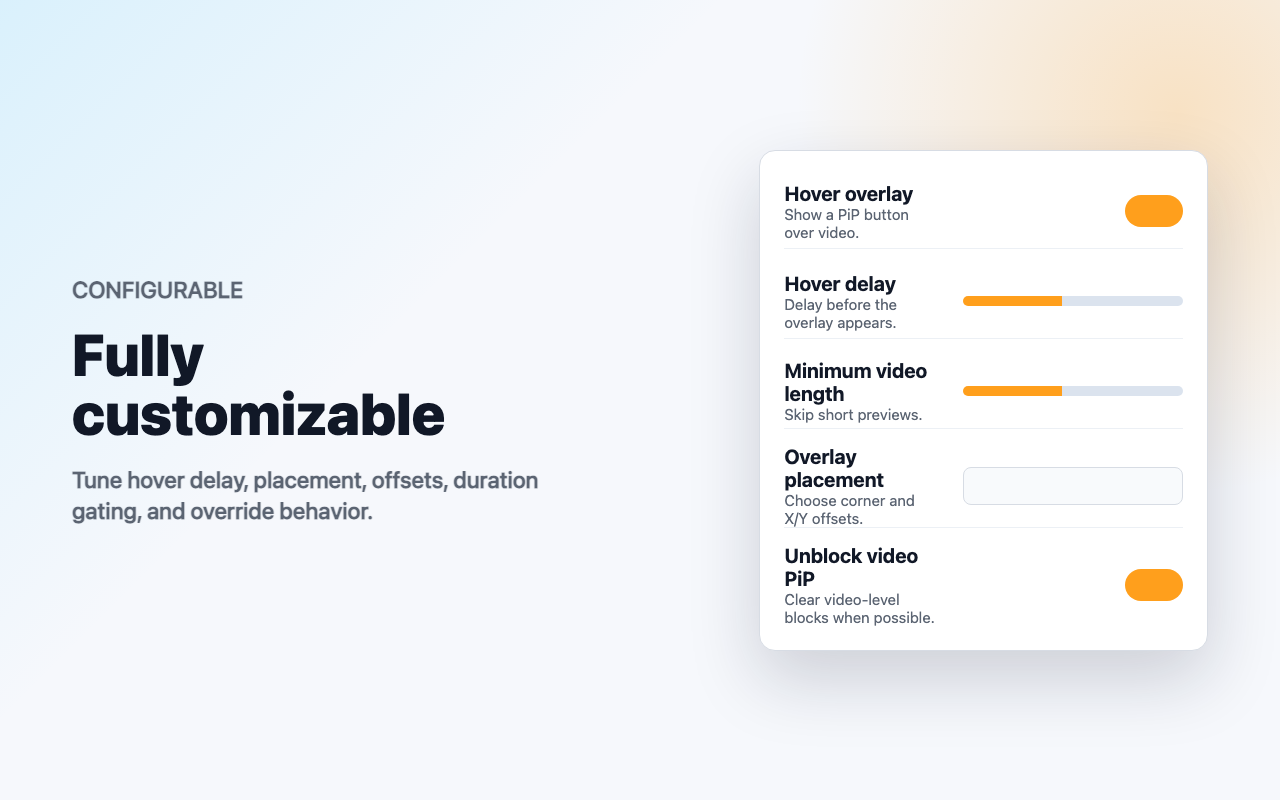
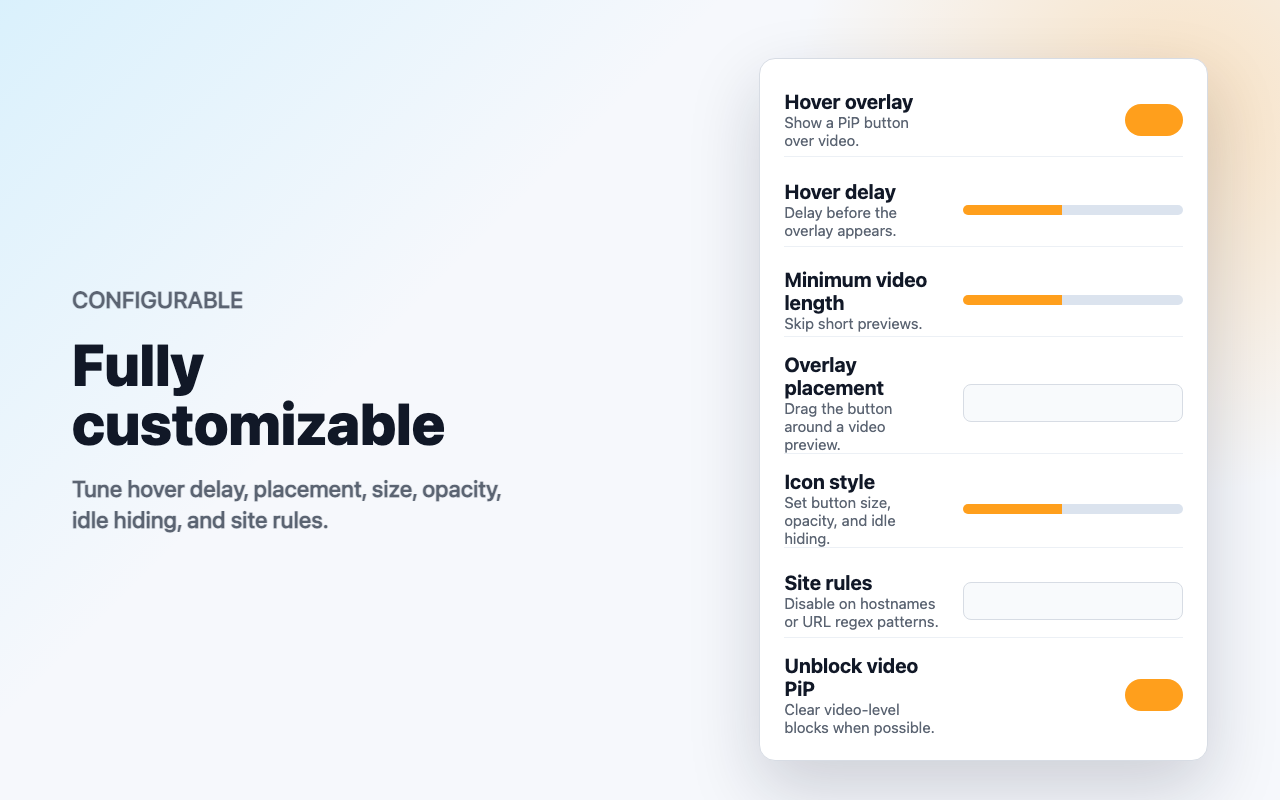
docs: refresh advanced feature copy

diff --git a/store/listing.data.js b/store/listing.data.js
@@ -16,20 +16,22 @@ export default {
 
   copy: {
     shortDescription:
-      "Keyboard, toolbar, and hover picture-in-picture controls for HTML5 video.",
+      "Keyboard, video picker, and hover picture-in-picture controls for HTML5 video.",
 
     detailedDescription: `PiP Anywhere gives you faster, more reliable picture-in-picture controls for HTML5 video in Chrome and Edge.
 
-Native browser PiP is useful, but the controls can be hidden, inconsistent, or blocked by video sites. PiP Anywhere adds a consistent command layer so you can pop videos out from the keyboard, toolbar, or an on-video hover button.
+Native browser PiP is useful, but the controls can be hidden, inconsistent, or blocked by video sites. PiP Anywhere adds a consistent command layer so you can pop videos out from the keyboard, a toolbar video picker, or an on-video hover button.
 
 FEATURES
 
 • Hover overlay — show a PiP button directly over eligible videos
 • Browser shortcut — toggle PiP from a configurable extension command
-• Toolbar action — click the extension icon to toggle PiP for the best video on the page
+• Toolbar video picker — click the extension icon, highlight page videos, then choose the one to pop out
 • Best-effort unblocking — clears video-level PiP blocks such as disablePictureInPicture when possible
 • Smarter preview handling — suppresses noisy overlays on short videos and YouTube homepage previews
-• Configurable behavior — set hover delay, minimum video length, overlay corner, and X/Y offsets
+• Configurable behavior — set hover delay, minimum video length, drag-based overlay placement, hover icon size, hover icon opacity, and idle hiding
+• Site rules — disable the extension on matching hosts or URL regex patterns
+• Settings portability — import and export your options as JSON
 • Useful feedback — shows clear messages when the browser requires page interaction or no eligible video exists
 
 WHY IT EXISTS
@@ -48,7 +50,7 @@ OPEN SOURCE
 
 Source code: https://github.com/gormanity/pip-anywhere-extension`,
 
-    versionNotes: `Initial release candidate. Adds keyboard, toolbar, and hover-overlay picture-in-picture controls for HTML5 video, configurable overlay behavior, and best-effort video-level PiP unblocking.`,
+    versionNotes: `Initial release candidate. Adds keyboard, toolbar video picker, and hover-overlay picture-in-picture controls for HTML5 video, configurable overlay behavior, per-site disabling, settings import/export, and best-effort video-level PiP unblocking.`,
   },
 
   categories: {
@@ -62,8 +64,8 @@ Source code: https://github.com/gormanity/pip-anywhere-extension`,
     verification: [
       "Load any page with an HTML5 video, such as a normal YouTube watch page, then hover the video to see the PiP overlay button.",
       "Click the hover overlay button to request native picture-in-picture for that video.",
-      "Click the extension toolbar icon on a video page to toggle PiP for the best eligible video.",
-      "Open the options page to adjust hover delay, minimum video length, overlay corner, X/Y offsets, and video-level unblocking.",
+      "Click the extension toolbar icon on a video page to highlight videos, then click a highlighted video to request PiP.",
+      "Open the options page to adjust hover delay, minimum video length, drag-based overlay placement, hover icon size, hover icon opacity, idle hiding, per-site disable rules, settings import/export, and video-level unblocking.",
       "The extension uses `chrome.storage.sync` only for user preferences.",
       "The extension does not use remote code, external services, analytics, tracking, accounts, or network requests.",
       "Browser-level user activation, Permissions Policy, and DRM restrictions may still prevent PiP on some pages.",
@@ -75,7 +77,7 @@ Source code: https://github.com/gormanity/pip-anywhere-extension`,
 
   chrome: {
     singlePurpose:
-      "Adds keyboard, toolbar, and hover-overlay controls for triggering native picture-in-picture on HTML5 video pages in Chrome and Edge.",
+      "Adds keyboard, toolbar video picker, and hover-overlay controls for triggering native picture-in-picture on HTML5 video pages in Chrome and Edge.",
 
     remoteCodeJustification:
       "This extension does not use remote code. All scripts, styles, and resources are bundled into the extension package at build time via Vite and shipped inside the .zip submitted to the store.",
@@ -84,7 +86,7 @@ Source code: https://github.com/gormanity/pip-anywhere-extension`,
       {
         permission: "`activeTab`",
         justification:
-          "Allows the toolbar action and keyboard command to target the currently active tab when the user explicitly invokes PiP.",
+          "Allows the toolbar video picker and keyboard command to target the currently active tab when the user explicitly invokes PiP.",
       },
       {
         permission: "`scripting`",
@@ -94,7 +96,7 @@ Source code: https://github.com/gormanity/pip-anywhere-extension`,
       {
         permission: "`storage`",
         justification:
-          "Stores user preferences such as hover delay, overlay placement, minimum video length, and PiP unblocking behavior using browser sync storage.",
+          "Stores user preferences such as hover delay, overlay placement, hover icon size, hover icon opacity, minimum video length, site disable rules, and PiP unblocking behavior using browser sync storage.",
       },
       {
         permission: "Host permission: `<all_urls>`",

diff --git a/store/screenshots/04-options.html b/store/screenshots/04-options.html
@@ -11,8 +11,8 @@
         <p class="eyebrow">Configurable</p>
         <h1>Fully customizable</h1>
         <p>
-          Tune hover delay, placement, offsets, duration gating, and override
-          behavior.
+          Tune hover delay, placement, size, opacity, idle hiding, and site
+          rules.
         </p>
       </section>
       <section class="options-panel">
@@ -40,7 +40,21 @@
         <div class="option-row">
           <div>
             <strong>Overlay placement</strong
-            ><small>Choose corner and X/Y offsets.</small>
+            ><small>Drag the button around a video preview.</small>
+          </div>
+          <span class="select"></span>
+        </div>
+        <div class="option-row">
+          <div>
+            <strong>Icon style</strong
+            ><small>Set button size, opacity, and idle hiding.</small>
+          </div>
+          <span class="range"></span>
+        </div>
+        <div class="option-row">
+          <div>
+            <strong>Site rules</strong
+            ><small>Disable on hostnames or URL regex patterns.</small>
           </div>
           <span class="select"></span>
         </div>

diff --git a/tests/e2e/local-fixture.spec.ts b/tests/e2e/local-fixture.spec.ts
@@ -165,7 +165,7 @@ test("honors configured hover delay before showing the overlay", async () => {
   });
 });
 
-test("positions the overlay from the configured corner and offsets", async () => {
+test("positions the overlay from configured percentage placement", async () => {
   await setSettings({
     overlayPositionXPercent: 20,
     overlayPositionYPercent: 80,

diff --git a/README.md b/README.md
@@ -7,11 +7,12 @@ overlay on video elements.
 ## Features
 
 - Browser command for toggling PiP on the active tab.
-- Toolbar action that sends the same PiP toggle to the active tab.
-- Hover overlay button for HTML5 video elements.
+- Toolbar action that highlights page videos so you can choose the PiP target.
+- Hover overlay button for HTML5 video elements, with configurable placement,
+  size, opacity, delay, idle hiding, and minimum video length.
 - Best-effort clearing of video-level `disablePictureInPicture` blocks.
-- Options page for hover delay, minimum video length, overlay placement and
-  offsets, PiP unblocking, shortcut management, and dev-only debug logging.
+- Options page for shortcut management, import/export, per-site disable rules
+  with regex support, PiP unblocking, and dev-only debug logging.
 
 Browser-enforced site policies may still prevent PiP on some pages. The
 extension removes blocks it can control at the video element level.

diff --git a/store/privacy-policy.md b/store/privacy-policy.md
@@ -20,10 +20,13 @@ The extension stores these preferences using the browser's `storage.sync` API:
 | `hoverOverlayEnabled`           | boolean | Whether the hover overlay button is enabled           |
 | `hoverDelayMs`                  | number  | Delay before showing the hover overlay                |
 | `minimumOverlayDurationSeconds` | number  | Minimum video length for hover overlay eligibility    |
-| `overlayCorner`                 | string  | Preferred overlay corner                              |
-| `overlayOffsetX`                | number  | Horizontal overlay offset                             |
-| `overlayOffsetY`                | number  | Vertical overlay offset                               |
+| `overlayPositionXPercent`       | number  | Horizontal overlay position within the video          |
+| `overlayPositionYPercent`       | number  | Vertical overlay position within the video            |
+| `overlayOpacityPercent`         | number  | Hover overlay opacity                                 |
+| `overlaySizePx`                 | number  | Hover overlay button size                             |
+| `overlayIdleHideMs`             | number  | Idle delay before hiding the hover overlay            |
 | `unblockVideoPiP`               | boolean | Whether to clear video-level PiP blocks when possible |
+| `disabledSitePatterns`          | array   | User-entered site disable hostnames or URL regexes    |
 | `debugLogging`                  | boolean | Development-build-only diagnostic logging preference  |
 
 These values are stored locally in your browser and may sync through your

diff --git a/store/screenshots/README.md b/store/screenshots/README.md
@@ -37,8 +37,9 @@ that every browser-enforced policy can be bypassed.
 
 Message: "Fully customizable"
 
-Show the options page with hover delay, minimum duration, placement, offsets,
-and unblocking visible. The UI should be readable at store screenshot size.
+Show the options page with hover delay, minimum duration, drag-based placement,
+icon style, site rules, and unblocking visible. The UI should be readable at
+store screenshot size.
 
 ### 05-privacy
 